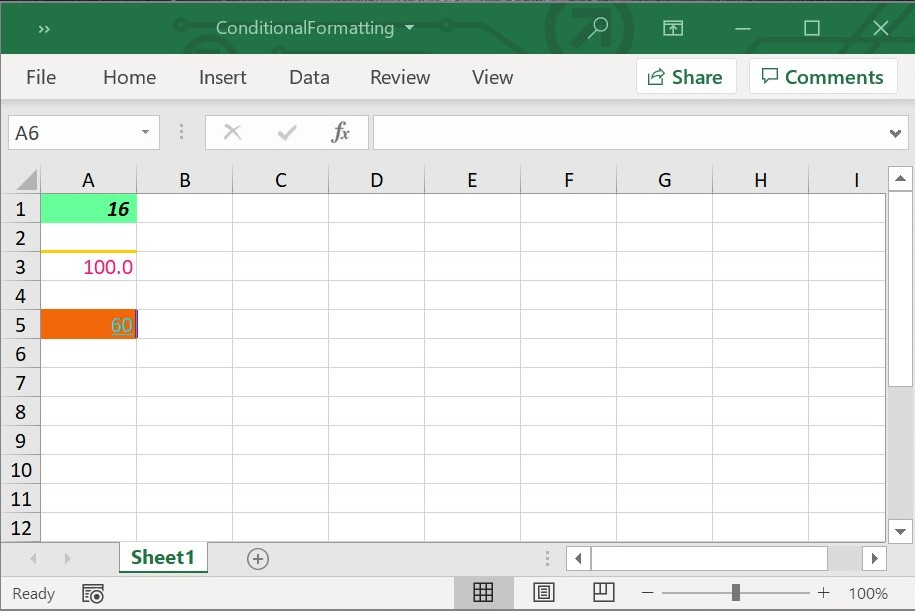
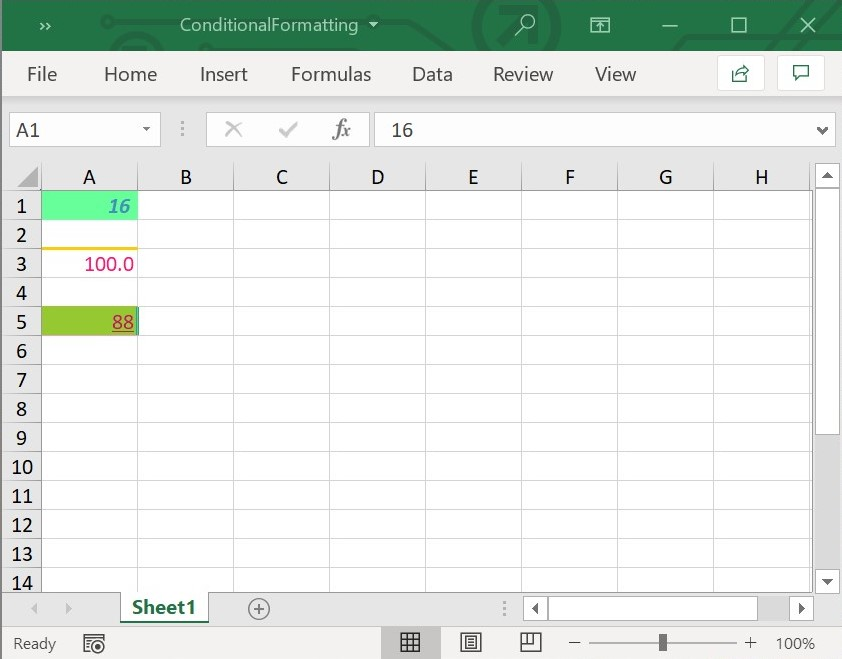
FLUT-2795-[feature][flutter]: Added color property content

Changed region(s): [[0.0, 0.0, 1.0, 1.0]]

diff --git a/Flutter/xlsio/working-with-conditional-formatting.md b/Flutter/xlsio/working-with-conditional-formatting.md
@@ -42,6 +42,7 @@ When the criteria set for the target range is satisfied, the defined formats (li
 {% highlight dart %}
 
 //Setting format properties to be applied when the above condition is met
+//set back color in hexa decimal value.
 condition1.backColor = '#209301';
 condition1.isBold = true;
 condition1.isItalic = true;
@@ -70,8 +71,13 @@ condition1.secondFormula = '20';
 sheet.getRangeByIndex(1, 1).setText('Enter a number between 10 and 20');
 
 //Setting format properties to be applied when the above condition is met.
+//set back color in hexa decimal value.
 condition1.backColor = '#66FF99';
+//set font color in hexa decimal value.
+condition1.fontColor = '#448EBC';
+//set font bold.
 condition1.isBold = true;
+//set font italic.
 condition1.isItalic = true;
 
 //Applying conditional formatting to "A3".
@@ -85,9 +91,13 @@ condition2.firstFormula = '100';
 sheet.getRangeByIndex(3, 1).setText('Enter the Number as 100');
 
 //Setting format properties to be applied when the above condition is met.
+//set font color in hexa decimal value.
 condition2.fontColor = '#FF1574';
+//set top border line style.
 condition2.topBorderStyle = LineStyle.thick;
+//set top border color in hexa decimal value.
 condition2.topBorderColor = '#FFCC00';
+//set number format.
 condition2.numberFormat = '0.0';
 
 //Applying conditional formatting to "A5".
@@ -100,14 +110,23 @@ condition3.operator = ExcelComparisonOperator.greaterOrEqual;
 condition3.firstFormula = '50';
 sheet
   .getRangeByIndex(5, 1)
-  .setText('Enter the number value greater than or equal to 50.');
+    .setText('Enter the number value greater than or equal to 50.');
 
 //Setting format properties to be applied when the above condition is met.
-condition3.backColor = '#F16709';
-condition3.fontColor = '#17D4E3';
+//set back color in Color RGB value.
+condition3.backColorRGB = Color.fromARGB(255, 150, 200, 50);
+//set font color in Color RGB value.
+condition3.fontColorRGB = Color.fromARGB(255, 200, 20, 100);
+//set font underline
 condition3.underline = true;
+//set right border line style
 condition3.rightBorderStyle = LineStyle.double;
-condition3.rightBorderColor = '#3333FF';
+// set right border color in Color RGB value.
+condition3.rightBorderColorRGB = Color.fromARGB(240, 24, 160, 200);
+//set bottom border line style
+condition3.bottomBorderStyle = LineStyle.thin;
+// set bottom border color in Color RGB value.
+condition3.bottomBorderColorRGB = Color.fromARGB(255, 240, 160, 200);
 
 //save and dispose.
 final List<int> bytes = workbook.saveAsStream();
@@ -571,7 +590,7 @@ workbook.dispose();
 
 {% endhighlight %}
 
-The following screenshot represents the Excel file generated with `AboveBelowAverage` conditional format with `averageType` set as `below` in XlsIO.
+The following screenshot represents the Excel file generated with `AboveBelowAverage` conditional format with `averageType` set as `below` in Flutter XlsIO.
 
 ![Above or Below Average conditional format](images/CFAboveBelowAvg.jpg)
 
@@ -637,7 +656,7 @@ workbook.dispose();
 
 {% endhighlight %}
 
-The following screenshot represents the Excel file generated with `AboveBelowAverage` conditional format when `averageType` is set as `aboveStdDev` in XlsIO.
+The following screenshot represents the Excel file generated with `AboveBelowAverage` conditional format when `averageType` is set as `aboveStdDev` in Flutter XlsIO.
 
 ![Above or Below Average conditional format](images/CFAboveBelowAvgStd.jpg)
 
@@ -662,20 +681,20 @@ final ColorScale colorScale = conditionalFormat.colorScale;
 
 //Sets 3 - color scale
 colorScale.setConditionCount(3);
-colorScale.criteria[0].formatColor = '#9933FF';
+//Set format color for colorscale in hexa decimal value.
+colorScale.criteria[0].formatColor = '#2C36F6';
 colorScale.criteria[0].type = ConditionValueType.lowestValue;
 colorScale.criteria[0].value = '0';
 
-colorScale.criteria[1].formatColor = '#4FE372';
+//Set format color for colorscale in Color RGB value.
+colorScale.criteria[1].formatColorRGB = Color.fromARGB(255, 200, 20, 100);
 colorScale.criteria[1].type = ConditionValueType.percentile;
 colorScale.criteria[1].value = '50';
 
+//Set format color for colorscale in hexa decimal value.
 colorScale.criteria[2].formatColor = '#F06506';
 colorScale.criteria[2].type = ConditionValueType.highestValue;
 colorScale.criteria[2].value = '0';
-
-conditionalFormat.firstFormulaR1C1 = '=R[1]C[0]';
-conditionalFormat.secondFormulaR1C1 = '=R[1]C[1]';
 
 {% endhighlight %}
 
@@ -711,6 +730,56 @@ Custom Icon sets can be created and customized in Flutter XlsIO as follows.
 
 {% highlight dart %}
 
+// Create a new Excel Document.
+final Workbook workbook = Workbook();
+
+// Accessing sheet via index.
+final Worksheet sheet = workbook.worksheets[0];
+
+sheet.getRangeByName('A1').number = 125;
+sheet.getRangeByName('A2').number = 279;
+sheet.getRangeByName('A3').number = 42;
+sheet.getRangeByName('A4').number = 384;
+sheet.getRangeByName('A5').number = 129;
+sheet.getRangeByName('A6').number = 212;
+sheet.getRangeByName('A7').number = 131;
+sheet.getRangeByName('A8').number = 230;
+
+//Create iconset for the data in specified range.
+final ConditionalFormats conditionalFormats =
+  sheet.getRangeByName('A1:A10').conditionalFormats;
+final ConditionalFormat conditionalFormat = conditionalFormats.addCondition();
+//Set FormatType as IconSet.
+conditionalFormat.formatType = ExcelCFType.iconSet;
+final IconSet iconSet = conditionalFormat.iconSet;
+//Set conditions for IconCriteria.
+iconSet.iconSet = ExcelIconSetType.threeFlags;
+
+final IconConditionValue iconValue1 = iconSet.iconCriteria[0];
+iconValue1.iconSet = ExcelIconSetType.fiveBoxes;
+iconValue1.index = 3;
+iconValue1.type = ConditionValueType.percent;
+iconValue1.value = '25';
+iconValue1.operator = ConditionalFormatOperator.greaterThan;
+
+final IconConditionValue iconValue2 = iconSet.iconCriteria[1];
+iconValue2.iconSet = ExcelIconSetType.threeSigns;
+iconValue2.index = 2;
+iconValue2.type = ConditionValueType.percent;
+iconValue2.value = '50';
+iconValue2.operator = ConditionalFormatOperator.greaterThan;
+
+final IconConditionValue iconValue3 = iconSet.iconCriteria[2];
+iconValue3.iconSet = ExcelIconSetType.fourRating;
+iconValue3.index = 0;
+iconValue3.type = ConditionValueType.percent;
+iconValue3.value = '75';
+iconValue3.operator = ConditionalFormatOperator.greaterThan;
+
+final List<int> bytes = workbook.saveAsStream();
+File('CustomIconSet.xlsx').writeAsBytes(bytes);
+workbook.dispose();
+
 {% endhighlight %}
 
 ### Data Bars
@@ -731,15 +800,54 @@ final DataBar dataBar = conditionalFormat.dataBar;
 dataBar.minPoint.type = ConditionValueType.lowestValue;
 dataBar.maxPoint.type = ConditionValueType.highestValue;
 
-//Set color for DataBar
+//Set color for DataBar in hexa decimal value.
 dataBar.barColor = '#FF7C80';
 
 //Hide the data bar values
 dataBar.showValue = false;
 
+// set databar as border.
+dataBar.hasBorder = true;
+
+// Set Gradient fill to false.
+dataBar.hasGradientFill = false;
+
+//Set Bar Axis Position.
+dataBar.dataBarAxisPosition = DataBarAxisPosition.middle;
+
+//Set Bar Direction
+dataBar.dataBarDirection = DataBarDirection.rightToLeft;
+
+//Set Negative Border color for DataBar in hexa value.
+dataBar.negativeBorderColor = '#ED7D31';
+
+//Set Negative Bar color for DataBar in hexa value.
+dataBar.negativeFillColor = '#013461';
+
+//Set BarAxis color for DataBar in hexa value.
+dataBar.barAxisColor = '#FFDD12';
+
+//Set Border color for DataBar in hexa value.
+dataBar.borderColor = '#12DD01';
+
+//Set bar color for DataBar in Color RGB value.
+dataBar.barColorRGB = Color.fromARGB(255, 200, 13, 145);
+
+//Set Negative Border color for DataBar in Color RGB value.
+dataBar.negativeBorderColorRGB = Color.fromARGB(255, 200, 130, 0);
+
+// Set Negative Bar color for DataBar in Color RGB value.
+dataBar.negativeFillColorRGB = Color.fromARGB(230, 201, 230, 100);
+
+// Set BarAxis color for DataBar in Color RGB value.
+dataBar.barAxisColorRGB = Color.fromARGB(255, 134, 44, 224);
+
+//Set Border color for DataBar in Color RGB value.
+dataBar.borderColorRGB = Color.fromARGB(245, 45, 244, 230);
+
 {% endhighlight %}
 
-The application of these visualizations to a sample data and its output file is represented in the following code example.
+The below code example show how to use the advanced conditional formats such as **Color Scale**, **Iconset** and **DataBar** in Flutter XlsIO.
 
 {% highlight dart %}
 
@@ -764,13 +872,13 @@ sheet.getRangeByName('B1').setText('Mark-1');
 sheet.getRangeByName('B2').number = 35;
 sheet.getRangeByName('B3').number = 41;
 sheet.getRangeByName('B4').number = 84;
-sheet.getRangeByName('B5').number = 90;
+sheet.getRangeByName('B5').number = 10;
 sheet.getRangeByName('B6').number = 100;
 sheet.getRangeByName('B7').number = 37;
 sheet.getRangeByName('B8').number = 20;
 sheet.getRangeByName('B9').number = 46;
 sheet.getRangeByName('B10').number = 87;
-sheet.getRangeByName('B11').number = 78;
+sheet.getRangeByName('B11').number = 22;
 sheet.getRangeByName('C1').setText('Mark-2');
 sheet.getRangeByName('C2').number = 45;
 sheet.getRangeByName('C3').number = 78;
@@ -785,38 +893,38 @@ sheet.getRangeByName('C11').number = 35;
 sheet.getRangeByName('D1').setText('Mark-3');
 sheet.getRangeByName('D2').number = 39;
 sheet.getRangeByName('D3').number = 78;
-sheet.getRangeByName('D4').number = 45;
+sheet.getRangeByName('D4').number = 22;
 sheet.getRangeByName('D5').number = 89;
-sheet.getRangeByName('D6').number = 87;
+sheet.getRangeByName('D6').number = 54;
 sheet.getRangeByName('D7').number = 94;
 sheet.getRangeByName('D8').number = 48;
 sheet.getRangeByName('D9').number = 65;
-sheet.getRangeByName('D10').number = 49;
-sheet.getRangeByName('D11').number = 88;
+sheet.getRangeByName('D10').number = 15;
+sheet.getRangeByName('D11').number = 70;
 
 //Create color scales for the data in specified range
 ConditionalFormats conditionalFormats =
-    sheet.getRangeByName('B1:B11').conditionalFormats;
+      sheet.getRangeByName('B1:B11').conditionalFormats;
 ConditionalFormat conditionalFormat = conditionalFormats.addCondition();
 conditionalFormat.formatType = ExcelCFType.colorScale;
 final ColorScale colorScale = conditionalFormat.colorScale;
 
 //Sets 3 - color scale
 colorScale.setConditionCount(3);
+//Set format color for colorscale in hexa decimal value.
 colorScale.criteria[0].formatColor = '#2C36F6';
 colorScale.criteria[0].type = ConditionValueType.lowestValue;
 colorScale.criteria[0].value = '0';
 
-colorScale.criteria[1].formatColor = '#4FE372';
+//Set format color for colorscale in Color RGB value.
+colorScale.criteria[1].formatColorRGB = Color.fromARGB(255, 200, 20, 100);
 colorScale.criteria[1].type = ConditionValueType.percentile;
 colorScale.criteria[1].value = '50';
 
+//Set format color for colorscale in hexa decimal value.
 colorScale.criteria[2].formatColor = '#F06506';
 colorScale.criteria[2].type = ConditionValueType.highestValue;
 colorScale.criteria[2].value = '0';
-
-conditionalFormat.firstFormulaR1C1 = '=R[1]C[0]';
-conditionalFormat.secondFormulaR1C1 = '=R[1]C[1]';
 
 //Create icon sets for the data in specified range.
 conditionalFormats = sheet.getRangeByName('C1:C11').conditionalFormats;
@@ -827,9 +935,9 @@ final IconSet iconSet = conditionalFormat.iconSet;
 //Apply three symbols icon and hide the data in the specified range.
 iconSet.iconSet = ExcelIconSetType.threeSymbols;
 iconSet.iconCriteria[1].type = ConditionValueType.percent;
-iconSet.iconCriteria[1].value = "50";
+iconSet.iconCriteria[1].value = "40";
 iconSet.iconCriteria[2].type = ConditionValueType.percent;
-iconSet.iconCriteria[2].value = "50";
+iconSet.iconCriteria[2].value = "80";
 iconSet.showIconOnly = true;
 
 //Create data bars for the data in specified range.
@@ -842,17 +950,20 @@ final DataBar dataBar = conditionalFormat.dataBar;
 dataBar.minPoint.type = ConditionValueType.lowestValue;
 dataBar.maxPoint.type = ConditionValueType.highestValue;
 
-//Set color for DataBar
-dataBar.barColor = '#FF7C80';
+//Set color for DataBar in Color RGB value.
+dataBar.barColorRGB = Color.fromARGB(255, 244, 180, 10);
 
 //Hide the data bar values
 dataBar.showValue = false;
 
 // save and dispose.
 final List<int> bytes = workbook.saveAsStream();
-File('ConditionalFormatting.xlsx').writeAsBytes(bytes);
+File('ConditionalFormat.xlsx').writeAsBytes(bytes);
 workbook.dispose();
 
 {% endhighlight %}
 
+The following screenshot represents generated Excel file with advanced conditional format in Flutter XlsIO.
+
+![Advanced CF](images/ConditionalFormats.jpg)
 

diff --git a/Flutter/xlsio/working-with-cell-formatting.md b/Flutter/xlsio/working-with-cell-formatting.md
@@ -25,22 +25,48 @@ final Worksheet sheet = workbook.worksheets[0];
 
 //Creating a new style with all properties.
 final Style style = CellStyle(workbook);
+// set style name.
 style.name = 'Style1';
+// set back color in hexa decimal value.
 style.backColor = '#FF5050';
+// set back color in Color RGB value.
+style.backColorRGB = Color.fromARGB(255, 34, 244, 0);
+// set font name.
 style.fontName = 'Aldhabi';
+// set font color in hexa decimal vlaue.
 style.fontColor = '#138939';
+// set font color in Color RGB value.
+style.fontColorRGB = Color.fromARGB(255, 244, 0, 34);
+// set font size.
 style.fontSize = 16;
+// set font bold.
 style.bold = true;
+// set font italic.
 style.italic = true;
+// set font underline.
 style.underline = true;
+// set rotation.
 style.rotation = 120;
+// set horizontal alignment.
 style.hAlign = HAlignType.center;
+// set veritical alignment.
 style.vAlign = VAlignType.bottom;
+// set indent value.
 style.indent = 1;
-style.borders.all.lineStyle = LineStyle.double;
-style.borders.all.color = '#FFFF66';
+// set top bordera line style.
+style.borders.top.lineStyle = LineStyle.double;
+// set top borders color in hexa decimal value.
+style.borders.top.color = '#FFFF66';
+// set right bordera line style.
+style.borders.right.lineStyle = LineStyle.thick;
+// set right borders color in Color RGB value.
+style.borders.right.colorRGB = Color.fromARGB(255, 0, 34, 244);
+// set wrap text.
 style.wrapText = true;
+// set number format to cell.
 style.numberFormat = '_(\$* #,##0_)';
+
+// Add style.
 workbook.styles.addStyle(style);
 
 //Apply cellStyle.

diff --git a/Flutter/xlsio/overview.md b/Flutter/xlsio/overview.md
@@ -23,5 +23,8 @@ The Syncfusion Flutter XlsIO is a library written natively in Dart for creating 
 * Support to insert and delete rows and columns.
 * Supports Autofit rows and columns.
 * Supports Protect Excel workbooks and worksheets.
+* Supports Excel Conditional Formatting.
+* Supports Encrypt Excel documents.
+* Support to import list data to Excel Worksheets.
 
 You can get the sample from this link: [`Flutter XlsIO`](https://github.com/syncfusion/flutter-examples)
